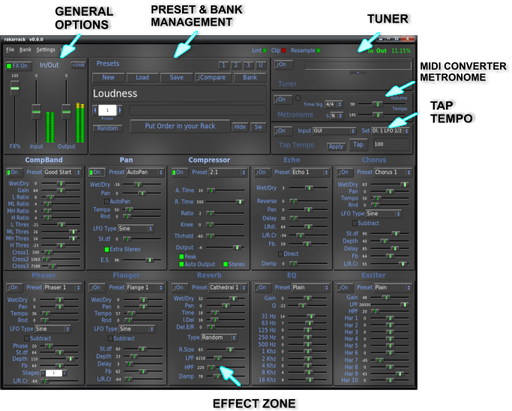
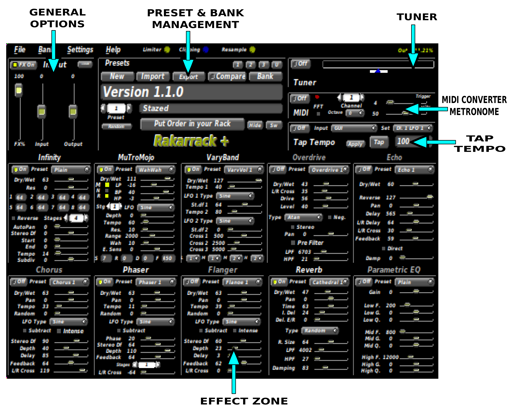
Update more help .png. Additional help updates.

diff --git a/doc/help/general.html b/doc/help/general.html
@@ -310,10 +310,13 @@ screenshot shows the connection of a guitar, usually mono aural.</p>
 <h3><a name="pyb"></a>Presets &amp; Banks</h3>
 
 <p>The state of the rack can be saved to a file at any
-time, either pressing the "Save" buttons or via the menu
-File-&gt;Save Preset. Rakarrack-plus suggests the preset name for the
-filename.rkr in the save operation, but you can put what you want.
-You can assign the preset name here:</p>
+time, either pressing the "Export" button or via the menu
+File-&gt;Export Preset. The export file is a text file that can
+be shared and imported from other users. Rakarrack-plus default extension
+is .rkr, but this is not required. These single preset text files do
+not have to be kept in the User directory to be used.</p>
+
+<p>Set the preset name here:</p>
 
 <p><img src="imagenes/preset_name1.png" alt="rakarrack Preset Box"></p>
 
